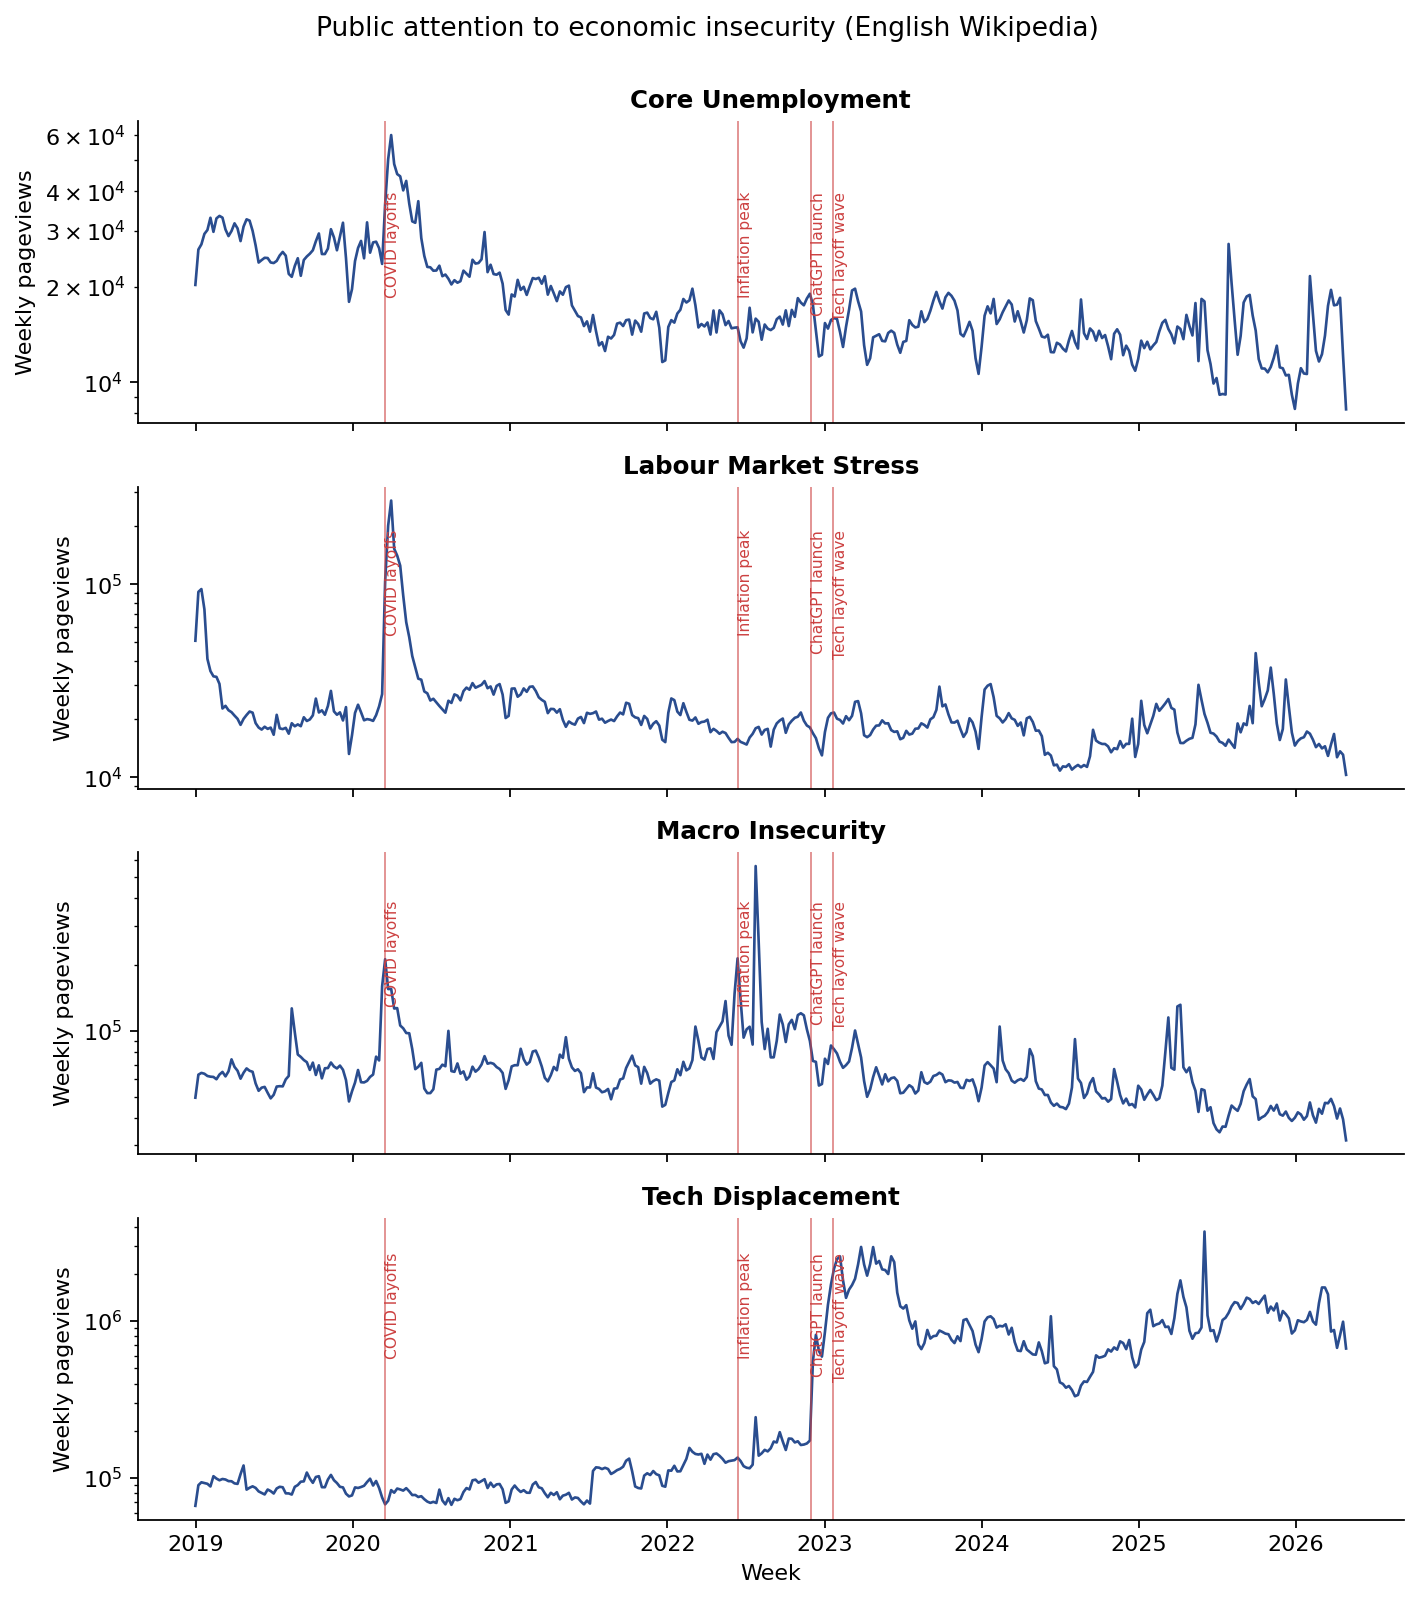
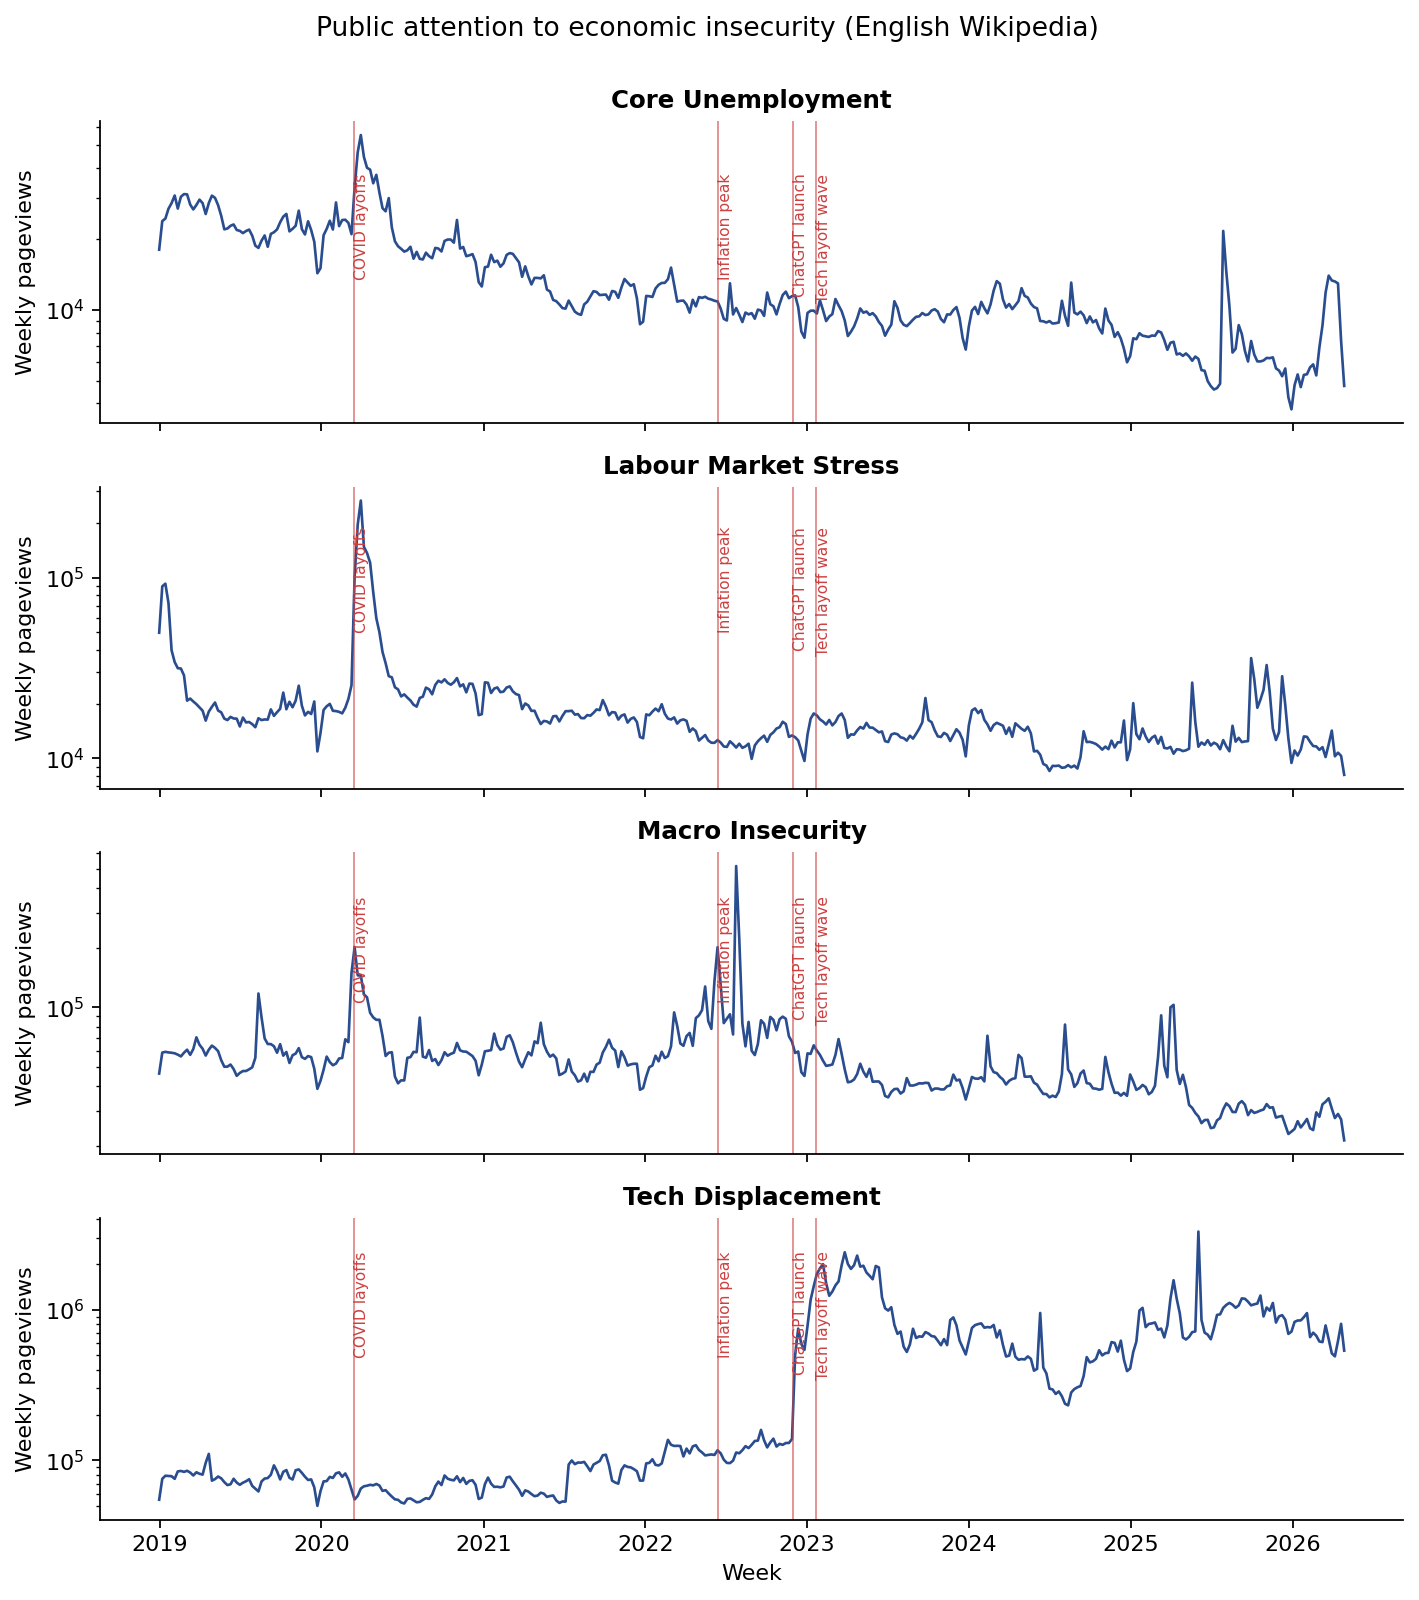
robustness: user-only REST + article-level checks + revise README

diff --git a/analyze/analyze_robustness.py b/analyze/analyze_robustness.py
@@ -1,0 +1,198 @@
+import argparse
+import glob
+from pathlib import Path
+
+import matplotlib.dates as mdates
+import matplotlib.pyplot as plt
+import numpy as np
+import pandas as pd
+import ruptures as rpt
+
+plt.rcParams.update({
+    "figure.dpi": 120,
+    "savefig.dpi": 160,
+    "font.size": 10,
+    "axes.spines.top": False,
+    "axes.spines.right": False,
+})
+
+TECH_ALL = [
+    "Artificial_intelligence",
+    "Automation",
+    "ChatGPT",
+    "Future_of_work",
+    "Generative_artificial_intelligence",
+    "Large_language_model",
+    "Technological_unemployment",
+    "Universal_basic_income",
+]
+
+TECH_PRE2019 = [
+    "Artificial_intelligence",
+    "Automation",
+    "Future_of_work",
+    "Technological_unemployment",
+    "Universal_basic_income",
+]
+
+TECH_LABOR_NARROW = [
+    "Technological_unemployment",
+    "Automation",
+    "Universal_basic_income",
+]
+
+SHOCKS = [
+    ("2020-03-15", "COVID layoffs"),
+    ("2022-06-15", "Inflation peak"),
+    ("2022-11-30", "ChatGPT launch"),
+    ("2023-01-20", "Tech layoff wave"),
+]
+
+
+def load_weekly(curated_dir):
+    files = glob.glob(str(curated_dir / "weekly" / "year=*/part.csv"))
+    df = pd.concat([pd.read_csv(f) for f in files], ignore_index=True)
+    df["period"] = pd.to_datetime(df["period"])
+    return df
+
+
+def article_panel(df, articles):
+    sub = df[df["canonical"].isin(articles)]
+    pivot = (
+        sub.pivot_table(index="period", columns="canonical",
+                        values="views", aggfunc="sum")
+        .reindex(columns=articles)
+        .fillna(0)
+    )
+    return pivot
+
+
+def pelt_breakpoints(series, pen=10):
+    if (series <= 0).all() or len(series) < 10:
+        return []
+    algo = rpt.Pelt(model="rbf").fit(np.log1p(series))
+    try:
+        return algo.predict(pen=pen)[:-1]
+    except Exception:
+        return []
+
+
+def fig_article_breakdown(panel, out_path):
+    n = panel.shape[1]
+    fig, axes = plt.subplots(n, 1, figsize=(11, 1.8 * n), sharex=True)
+    if n == 1:
+        axes = [axes]
+    for ax, art in zip(axes, panel.columns):
+        s = panel[art]
+        non_zero = (s > 0).sum()
+        ax.plot(s.index, s.values, lw=1.0, color="#2a4d8f")
+        if (s > 0).any():
+            ax.set_yscale("log")
+        ax.set_title(f"{art}  (non-zero weeks: {non_zero}/{len(s)})",
+                     fontsize=9, loc="left", fontweight="bold")
+        ax.set_ylabel("weekly views")
+        for date_str, label in SHOCKS:
+            d = pd.to_datetime(date_str)
+            if s.index.min() <= d <= s.index.max():
+                ax.axvline(d, color="#cc4040", lw=0.6, alpha=0.6)
+    axes[-1].xaxis.set_major_locator(mdates.YearLocator())
+    axes[-1].xaxis.set_major_formatter(mdates.DateFormatter("%Y"))
+    axes[-1].set_xlabel("Week")
+    fig.suptitle("Tech-displacement attention by article (robustness)",
+                 y=1.00, fontsize=11, fontweight="bold")
+    fig.tight_layout()
+    fig.savefig(out_path, bbox_inches="tight")
+    plt.close(fig)
+
+
+def changepoint_for_group(panel, label):
+    if panel.empty:
+        return {"label": label, "break_dates": [], "n_articles": 0, "n_weeks": 0}
+    summed = panel.sum(axis=1)
+    bkps = pelt_breakpoints(summed.values, pen=10)
+    break_dates = [summed.index[i].date() for i in bkps if i < len(summed)]
+    return {
+        "label": label,
+        "n_articles": panel.shape[1],
+        "n_weeks": len(summed),
+        "break_dates": [str(d) for d in break_dates],
+    }
+
+
+def coverage_table(df, articles):
+    rows = []
+    for art in articles:
+        sub = df[df["canonical"] == art]
+        if sub.empty:
+            rows.append({"canonical": art, "n_weeks_present": 0,
+                         "first_week": None, "last_week": None,
+                         "first_nonzero_week": None})
+            continue
+        first = sub["period"].min()
+        last  = sub["period"].max()
+        nz    = sub[sub["views"] > 0]["period"].min() if (sub["views"] > 0).any() else None
+        rows.append({
+            "canonical": art,
+            "n_weeks_present": len(sub),
+            "first_week": str(first.date()),
+            "last_week":  str(last.date()),
+            "first_nonzero_week": str(nz.date()) if nz is not None else None,
+        })
+    return pd.DataFrame(rows)
+
+
+def main():
+    ap = argparse.ArgumentParser()
+    ap.add_argument("--curated", required=True, type=Path)
+    ap.add_argument("--out-dir", default=Path("analyze/figures"), type=Path)
+    args = ap.parse_args()
+    args.out_dir.mkdir(parents=True, exist_ok=True)
+
+    print(f"Loading weekly panel from {args.curated}/weekly")
+    df = load_weekly(args.curated)
+    print(f"  {len(df):,} rows, {df['period'].min().date()} -> {df['period'].max().date()}")
+
+    print("\n=== Coverage of tech_displacement articles ===")
+    cov = coverage_table(df, TECH_ALL)
+    print(cov.to_string(index=False))
+    cov.to_csv(args.out_dir / "tech_article_coverage.csv", index=False)
+
+    print("\nGenerating article-level breakdown plot...")
+    panel = article_panel(df, TECH_ALL)
+    fig_article_breakdown(panel, args.out_dir / "03_tech_articles_breakdown.png")
+    print(f"  wrote {args.out_dir / '03_tech_articles_breakdown.png'}")
+
+    print("\n=== Changepoint detection under three article subsets ===")
+    results = []
+    for label, subset in [
+        ("ALL tech_displacement (8 articles)",        TECH_ALL),
+        ("EXCLUDE post-window-created (ChatGPT, GenAI, LLM)", TECH_PRE2019),
+        ("LABOR-NARROW (Tech_unempl, Autom, UBI)",   TECH_LABOR_NARROW),
+    ]:
+        p = article_panel(df, subset)
+        r = changepoint_for_group(p, label)
+        results.append(r)
+        print(f"\n  Subset: {label}")
+        print(f"    {r['n_articles']} articles, {r['n_weeks']} weeks")
+        print(f"    PELT break_dates: {r['break_dates']}")
+
+    pd.DataFrame(results).to_csv(args.out_dir / "robustness_changepoints.csv",
+                                 index=False)
+
+    print("\n=== ChatGPT individual contribution ===")
+    chatgpt = df[df["canonical"] == "ChatGPT"]
+    if not chatgpt.empty:
+        total_views = df[df["canonical"].isin(TECH_ALL)].groupby("period")["views"].sum()
+        chatgpt_views = chatgpt.groupby("period")["views"].sum().reindex(total_views.index, fill_value=0)
+        share_2023plus = (
+            chatgpt_views[chatgpt_views.index >= "2023-01-01"].sum()
+            / total_views[total_views.index >= "2023-01-01"].sum()
+        )
+        print(f"  ChatGPT share of tech_displacement attention since 2023-01-01: "
+              f"{share_2023plus:.1%}")
+
+    print(f"\nDone. Outputs in {args.out_dir}")
+
+
+if __name__ == "__main__":
+    main()

diff --git a/ingest/ingest_pageviews_rest.py b/ingest/ingest_pageviews_rest.py
@@ -42,7 +42,7 @@ import yaml
 
 REST_URL = (
     "https://wikimedia.org/api/rest_v1/metrics/pageviews/per-article/"
-    "en.wikipedia/all-access/all-agents/"
+    "en.wikipedia/all-access/user/"
     "{title}/daily/{start}/{end}"
 )
 
